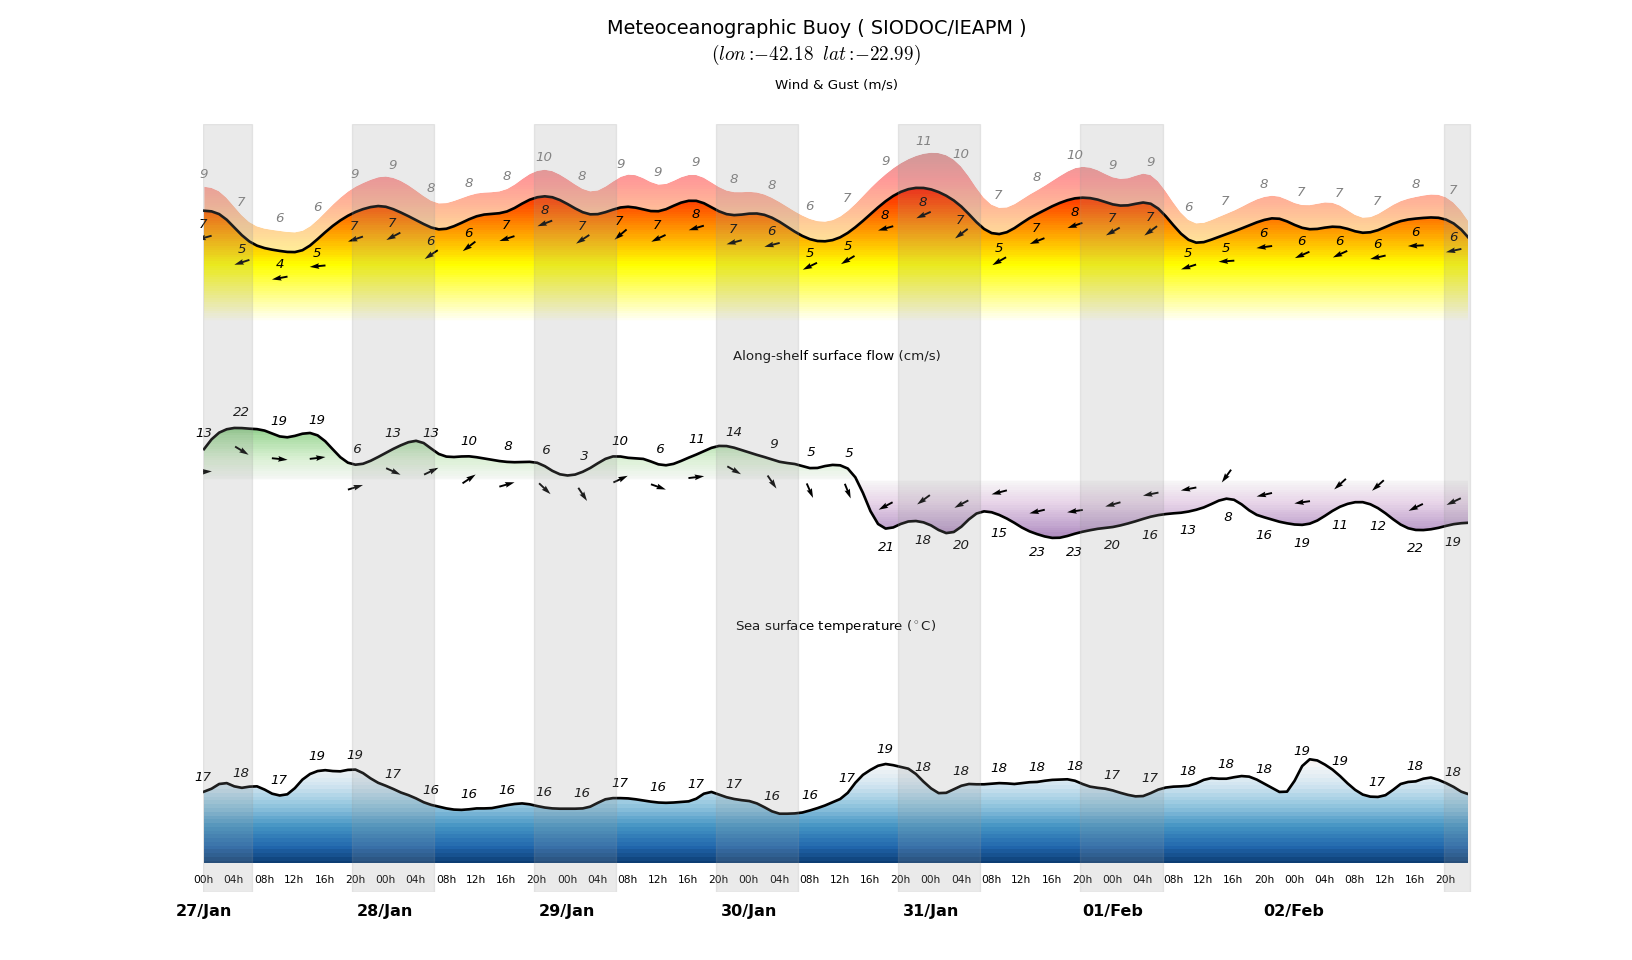
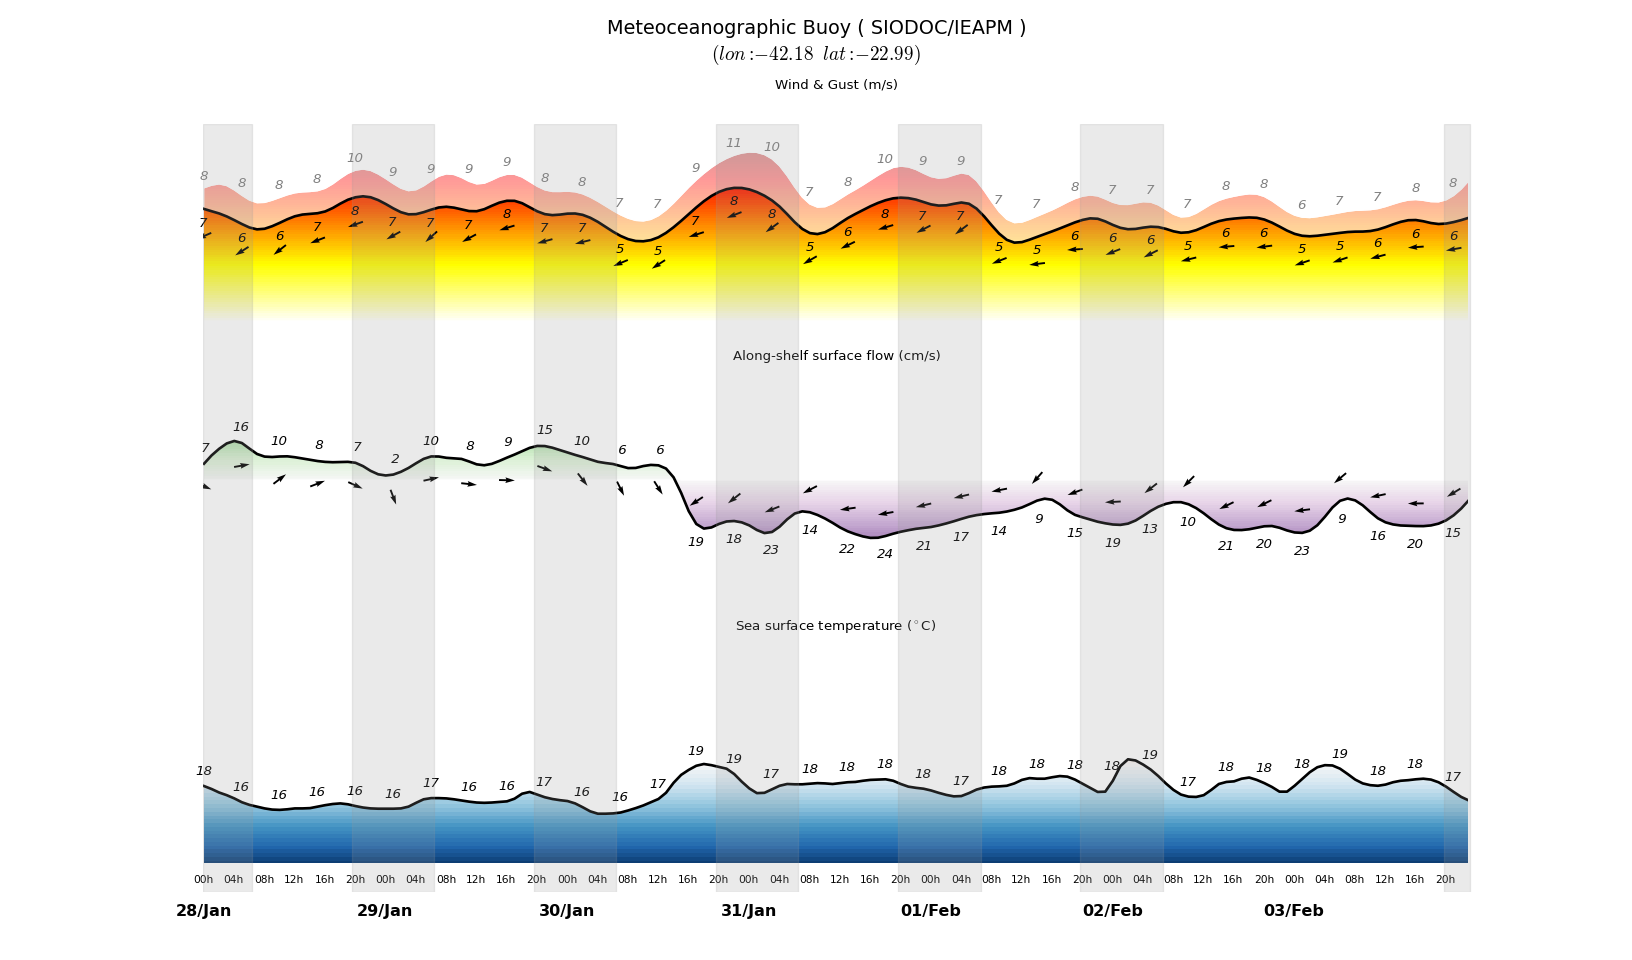
finished depth plot

diff --git a/views/default/datapanel.html b/views/default/datapanel.html
@@ -4,7 +4,8 @@
 
 <div class="row">
     <div class="span12">
-               <img src="{{=URL('static','images/siodoc_tmp.png')}}" height="750" width="1500"/> 
+               <img src="{{=URL('static','images/siodoc_tmp.png')}}" height="750" width="1500"/>
+               <img src="{{=URL('static','images/siodoc_full.png')}}" height="750" width="1500"/>
        <div class="span6">
        		<img src="{{=URL('static','images/tide.png')}}" height="200" width="500"/>
        </div>

diff --git a/modules/siodoc_plot.py b/modules/siodoc_plot.py
@@ -191,6 +191,8 @@ def plot(dst=False, filename=localpath + 'static/tmp_files/Data_month.csv_correc
     # dst=True
     # filename = localpath + 'static/tmp_files/Data_month.csv_corrected'
 
+    window_len = 12
+    decmag = -22.3
 
     # READING DATA
     columns = defaultdict(list) 
@@ -212,11 +214,14 @@ def plot(dst=False, filename=localpath + 'static/tmp_files/Data_month.csv_correc
     cdir = np.array(map(float, columns.values()[6][tlim:]))
     sst  = np.array(map(float, columns.values()[9][tlim:]))
 
+    # loading full temperature measurements
+
     depths = [0, 10, 15, 20, 25, 45]
 
     f = open(filename)
     lines = f.readlines()
     SST = np.zeros((len(depths), sst.size-1))
+
     c = 0
     for t in range(tlim, -1):
         SST[0,c] = float(lines[t].split(",")[-11])
@@ -227,10 +232,51 @@ def plot(dst=False, filename=localpath + 'static/tmp_files/Data_month.csv_correc
         SST[5,c] = float(lines[t].split(",")[-5])
         c += 1 
 
+    SST = remove_zeros(SST)
+
     for k in range(len(depths)):
         SST[k,:] = smooth(SST[k,:], 5)
 
-    SST = remove_zeros(SST)
+
+    # loading full current measurements
+
+    depths_c = [2, 10, 16, 20, 26, 30, 36]
+
+    f = open(filename)
+    lines = f.readlines()
+    CSPD = np.zeros((len(depths_c), cspd.size-1))
+    CDIR = np.zeros((len(depths_c), cspd.size-1))
+
+
+    c = 0
+    for t in range(tlim, -1):
+        CSPD[0,c] = float(lines[t].split(",")[21])
+        CSPD[1,c] = float(lines[t].split(",")[13])
+        CSPD[2,c] = float(lines[t].split(",")[14])
+        CSPD[3,c] = float(lines[t].split(",")[15])
+        CSPD[4,c] = float(lines[t].split(",")[16])
+        CSPD[5,c] = float(lines[t].split(",")[17])
+        CSPD[6,c] = float(lines[t].split(",")[18])
+
+        CDIR[0,c] = float(lines[t].split(",")[4])
+        CDIR[1,c] = float(lines[t].split(",")[5])
+        CDIR[2,c] = float(lines[t].split(",")[6])
+        CDIR[3,c] = float(lines[t].split(",")[7])
+        CDIR[4,c] = float(lines[t].split(",")[8])
+        CDIR[5,c] = float(lines[t].split(",")[9])
+        CDIR[6,c] = float(lines[t].split(",")[10])
+
+        c += 1 
+
+    # CSPD = remove_zeros(CSPD)
+    # for k in range(len(depths_c)):
+    #     CSPD[k,:] = smooth(CSPD[k,:], 5)
+
+    # CDIR = remove_zeros(CDIR)
+    # for k in range(len(depths_c)):
+    #     CDIR[k,:] = smooth(CDIR[k,:], 5)
+
+    CU, CV = intdir2uv(CSPD, CDIR, decmag, 0)
 
     time = columns.values()[44][tlim:]
     year = dt.datetime.now().year
@@ -256,8 +302,7 @@ def plot(dst=False, filename=localpath + 'static/tmp_files/Data_month.csv_correc
     datesnum = np.array(datesnum)
 
     # PRE-PROCESSING DATA
-    window_len = 12
-    decmag = -22.3
+
 
     for var in varlist:
         if var != "sst":
@@ -413,26 +458,64 @@ def plot(dst=False, filename=localpath + 'static/tmp_files/Data_month.csv_correc
 
 
     plt.savefig(localpath + 'static/images/siodoc_tmp.png', dpi=96)
+    
+
+
+
+    ########################################################################
+
+    fig = plt.figure(facecolor='w', figsize=(17,10))
+    plt.suptitle(u'Meteoceanographic Buoy ( SIODOC/IEAPM )\
+                     \n$(lon: -42.18 \ \  lat: -22.99)$', fontsize='large')
+
+    # preparing arrays
+    x, z = np.meshgrid(datesnum[:-1], np.array(depths))
+
+    ax = fig.add_subplot(311)  
+    plt.plot_date(datesnum[:-1], wspd[:-1]*0 + 17, 'w') 
+    plt.title(u'Temperature ($^\circ$C)', fontsize='smaller')
+    plt.contourf(x, -z, SST, np.arange(10, 25, 0.1))
+    plt.colorbar(orientation='horizontal', aspect=40, shrink=0.5)
+    plt.contour(x, -z, SST, [20, 20], colors='k')
+    plt.ylabel("Depth [m]")
+    plt.axis([datesnum[0], datesnum[-1], -45, 0])
+
+
+    ax = fig.add_axes([0.125, 0.1, 0.775, 0.5]) 
+    plt.title(u'Velocity (cm/s)', fontsize='smaller')
+    plt.ylabel("Depth [m]")
+    c = 0
+    j = 2
+    for d in depths_c:
+        plt.quiver(datesnum[::j], datesnum[::j]*0-d,
+                   CU[c,::j], CV[c,::j], width=0.001, scale=1200)
+        c += 1
+    plt.quiver(datesnum[-10], -5, -50, 0, width=0.003, scale=1200)
+    plt.text(datesnum[-19], -7, "50 cm/s")
+    plt.axis([datesnum[0], datesnum[-1], -45, 5])
+    # ax.set_axis_off()
+    ax.set_xticklabels([])
+
+    ax = fig.add_axes([0.125, 0.07, 0.781, 0.83])
+    night_fill(ax, rise_and_set, datesnum, ymin, ymax)
+    ax.set_axis_off()
+
+    # plotting dates
+    ax = fig.add_axes([0.125, 0.04, 0.775, 0.05])
+    ax.plot(datesnum, sst*0, 'w')
+    ax.set_axis_off()
+
+    for d in np.arange(0, datesnum.size, 24):
+        label = dates[d].strftime('%d/%b')
+        ax.annotate(label, (datesnum[d], -0.8), 
+                    fontweight='bold', ha='center')
+    for d in np.arange(0, datesnum.size, 4):
+        label = dates[d].strftime('%Hh')
+        ax.annotate(label, (datesnum[d], 0.6), ha='center', fontsize=8)
+    plt.axis([datesnum[0], datesnum[-1], -1, 1])
+
+    plt.savefig(localpath + 'static/images/siodoc_full.png', dpi=96)
+
     plt.close('all')
 
-
-
-    # ########################################################################
-
-    # fig = plt.figure(facecolor='w', figsize=(17,10))
-    # plt.suptitle(u'Meteoceanographic Buoy ( SIODOC/IEAPM )\
-    #                  \n$(lon: -42.18 \ \  lat: -22.99)$', fontsize='large')
-
-    # # preparing arrays
-    # x, z = np.meshgrid(datesnum[:-1], np.array(depths))
-
-    # ax = fig.add_subplot(311)  
-    # plt.plot_date(datesnum[:-1], wspd[:-1]*0 + 17, 'w') 
-    # plt.title(u'Temperature ($^\circ$C)', fontsize='smaller')
-    # plt.contourf(x, -z, SST, np.arange(10, 25, 0.1))
-    # plt.colorbar(orientation='horizontal', shrink=1.2)
-    # plt.contour(x, -z, SST, [20, 20], colors='k')
-    # plt.ylabel("Depth [m]")
-
-    # ax = fig.add_subplot(212)  
 
